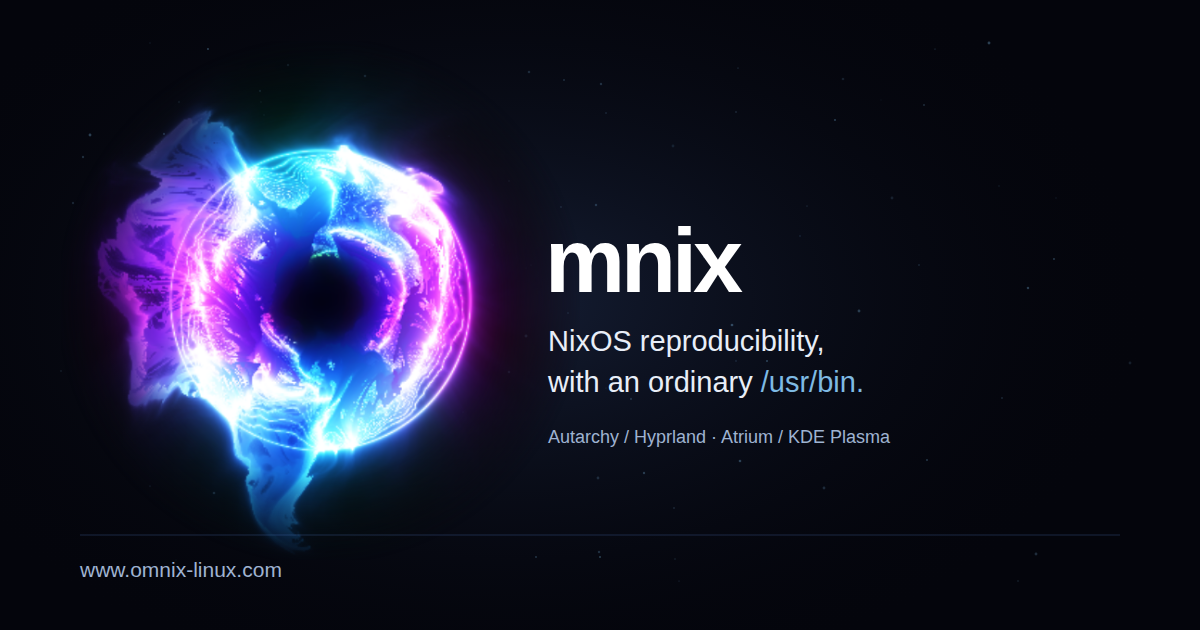
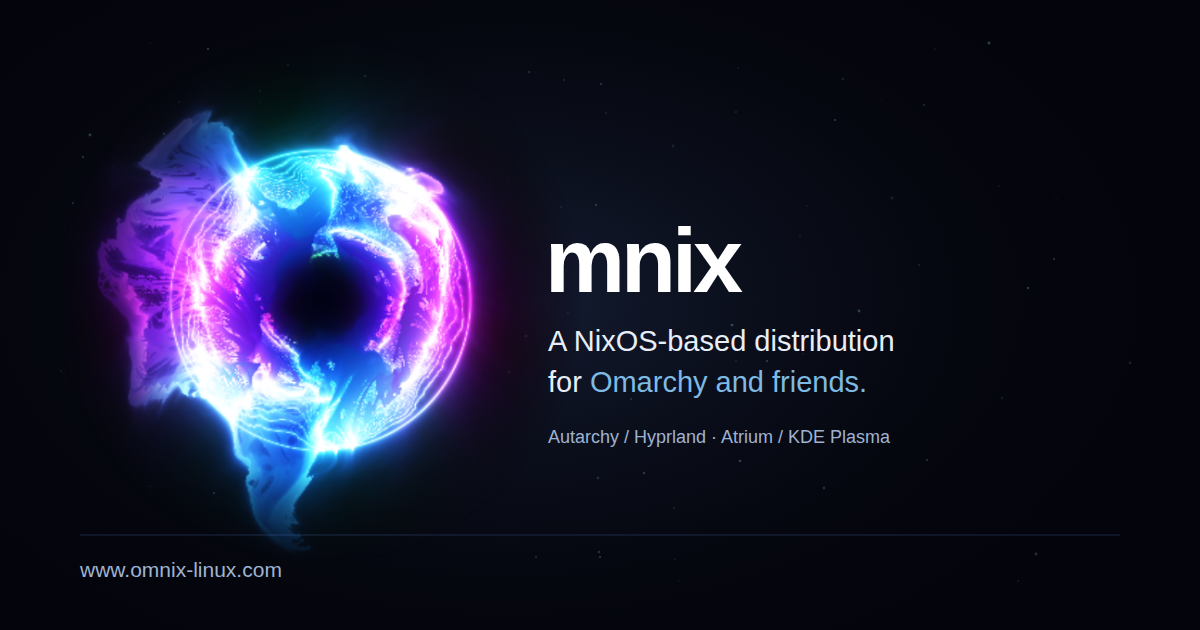
Describe shader geometry in JSON and preserve responsive O proportions

Changed region(s): [[0.4625, 0.5127, 0.74, 0.6333]]

diff --git a/coronal.js b/coronal.js
@@ -2,23 +2,75 @@
  * Derived from 3D Fire: https://fragcoord.xyz/s/3zoe0vgo
  * Expanded from the source's Golf syntax into GLSL. No audio input is needed.
  */
-afterFirstPaint(function () {
+afterFirstPaint(async function () {
   var canvas = document.getElementById("coronal");
   var orbit = document.querySelector(".logo-orbit");
   var root = document.documentElement;
   var reduce = window.matchMedia("(prefers-reduced-motion: reduce)");
-  if (!orbit || typeof THREE === "undefined" || reduce.matches) return;
+  if (!orbit || !canvas) return;
+  var profile;
+  try {
+    var response = await fetch(canvas.dataset.shaderProfile);
+    if (!response.ok) return;
+    profile = await response.json();
+    if (profile.version !== 1 || profile.geometry.letter.character !== "O") return;
+  } catch (e) { return; } // CSS and the poster supply the first-paint/offline fallback.
+  var geometry = profile.geometry, rendering = profile.rendering;
+  var wordmark = document.querySelector(".wordmark"), suffix = document.querySelector(".wordmark-text");
+  function placeLogo() {
+    var W = document.documentElement.clientWidth, H = window.innerHeight;
+    var mode = W <= profile.layout.mobile.maxViewportWidth ? profile.layout.mobile : profile.layout.desktop;
+    var box = wordmark.getBoundingClientRect();
+    var size = Math.min(W * mode.sizeViewportWidth, H * mode.sizeViewportHeight);
+    var centerX = W * mode.centerXViewport;
+    var centerY = box.top + window.scrollY + box.height / 2;
+    var left = centerX - geometry.letter.center.x * size;
+    var top = centerY - geometry.letter.center.y * size;
+    orbit.style.transform = "none";
+    orbit.style.left = (left - box.left) + "px";
+    orbit.style.top = (top - box.top - window.scrollY) + "px";
+    orbit.style.width = orbit.style.height = size + "px";
+    var letterHeight = (geometry.letter.bounds.bottom - geometry.letter.bounds.top) * size;
+    var suffixLeft = left + geometry.letter.bounds.right * size + mode.suffixGapToArtworkSize * size;
+    suffix.style.left = (suffixLeft - box.left) + "px";
+    suffix.style.top = (box.height / 2) + "px";
+    suffix.style.fontSize = Math.max(profile.layout.suffix.minFontSize,
+      Math.min(profile.layout.suffix.maxFontSize, letterHeight * mode.suffixScaleToLetterHeight)) + "px";
+    suffix.style.color = profile.layout.suffix.color;
+    suffix.textContent = profile.layout.suffix.text;
+    // Keep future profiles/longer suffixes inside a narrow viewport too.
+    var suffixWidth = suffix.getBoundingClientRect().width;
+    var available = Math.max(1, W - suffixLeft - 16);
+    if (suffixWidth > available) suffix.style.fontSize = (parseFloat(suffix.style.fontSize) * available / suffixWidth) + "px";
+    return { width: W, height: H, size: size, left: left, top: top, mode: mode };
+  }
+  document.querySelector(".logo-orbit img").src = profile.poster;
+  placeLogo();
+  if (typeof THREE === "undefined" || reduce.matches) {
+    window.addEventListener("resize", placeLogo);
+    if (document.fonts) document.fonts.ready.then(placeLogo);
+    return;
+  }
   var renderer;
   try { renderer = new THREE.WebGLRenderer({ canvas: canvas, alpha: true, antialias: false }); }
-  catch (e) { return; } // Keep the pre-rendered O when WebGL is unavailable.
-  var uniforms = { uCenter: { value: new THREE.Vector2() }, uDiameter: { value: 600 }, uTime: { value: 6 } };
+  catch (e) {
+    window.addEventListener("resize", placeLogo);
+    if (document.fonts) document.fonts.ready.then(placeLogo);
+    return; // Keep the pre-rendered O when WebGL is unavailable.
+  }
+  var uniforms = {
+    uCenter: { value: new THREE.Vector2() }, uDiameter: { value: 600 },
+    uSurfaceSize: { value: new THREE.Vector2() }, uBufferSize: { value: new THREE.Vector2() },
+    uTime: { value: 6 }
+  };
   var material = new THREE.ShaderMaterial({
     uniforms: uniforms, depthTest: false, depthWrite: false,
     vertexShader: "void main() { gl_Position = vec4(position.xy, 0., 1.); }",
     fragmentShader: [
-      "uniform vec2 uCenter; uniform float uDiameter, uTime;",
+      "uniform vec2 uCenter, uSurfaceSize, uBufferSize; uniform float uDiameter, uTime;",
       "void main() {",
-      "  vec2 uv = 2. * (gl_FragCoord.xy - uCenter) / uDiameter;",
+      "  vec2 pixel = gl_FragCoord.xy / uBufferSize * uSurfaceSize;",
+      "  vec2 uv = 2. * (pixel - uCenter) / uDiameter;",
       "  if (length(uv) > 1.5) { gl_FragColor = vec4(0., 0., 0., 1.); return; }",
       "  vec3 ray = normalize(vec3(uv, -1.));",
       "  vec3 glow = vec3(0.);",
@@ -42,52 +94,76 @@ afterFirstPaint(function () {
   var scene = new THREE.Scene(), camera = new THREE.Camera();
   var quad = new THREE.Mesh(new THREE.PlaneGeometry(2, 2), material);
   quad.frustumCulled = false; scene.add(quad);
-  // Render a full-page backdrop, skipping pixels beyond the large O.
-  var scale = Math.min(window.devicePixelRatio || 1, 1.5) * 0.45;
-  var visible = true, raf = 0, last = 0, slow = 0;
+  // Use CSS pixels for the shape and real drawing-buffer pixels for sampling.
+  // Crop the GL surface to the visible glow and cap its total pixels independently of DPR.
+  var quality = 1, raf = 0, resizeRaf = 0, last = 0, slow = 0, contextLost = false;
+  var heroPast = false;
   function draw() {
+    if (contextLost || reduce.matches) return;
     renderer.render(scene, camera);
     root.classList.add("shader-ready");
   }
+  function layout() {
+    var placement = placeLogo();
+    var W = placement.width, H = placement.height, diameter = placement.size;
+    var originX = placement.left + geometry.shaderOrigin.x * diameter;
+    var originY = placement.top + geometry.shaderOrigin.y * diameter;
+    var left = Math.max(0, Math.floor(placement.left + geometry.effectBounds.left * diameter));
+    var top = Math.max(0, Math.floor(placement.top + geometry.effectBounds.top * diameter));
+    var right = Math.min(W, Math.ceil(placement.left + geometry.effectBounds.right * diameter));
+    var bottom = Math.min(H, Math.ceil(placement.top + geometry.effectBounds.bottom * diameter));
+    var width = Math.max(1, right - left), height = Math.max(1, bottom - top);
+    canvas.style.inset = "auto";
+    canvas.style.left = left + "px"; canvas.style.top = top + "px";
+    canvas.style.width = width + "px"; canvas.style.height = height + "px";
+    var budget = (W <= profile.layout.mobile.maxViewportWidth ? rendering.mobileMaxPixels : rendering.desktopMaxPixels)
+      * (heroPast ? rendering.backgroundPixelBudgetScale : 1);
+    var ratio = Math.min(window.devicePixelRatio || 1, rendering.maxPixelRatio, Math.sqrt(budget / (width * height))) * quality;
+    renderer.setPixelRatio(ratio); renderer.setSize(width, height, false);
+    // Query WebGL itself: browser/GPU limits can differ from the requested buffer size.
+    var gl = renderer.getContext(), surface = canvas.getBoundingClientRect();
+    uniforms.uBufferSize.value.set(gl.drawingBufferWidth, gl.drawingBufferHeight);
+    uniforms.uSurfaceSize.value.set(surface.width, surface.height);
+    uniforms.uCenter.value.set(originX - surface.left, surface.height - (originY - surface.top));
+    uniforms.uDiameter.value = diameter;
+  }
   function resize() {
-    var rect = orbit.getBoundingClientRect();
-    var W = window.innerWidth, H = window.innerHeight;
-    renderer.setPixelRatio(scale); renderer.setSize(W, H, false);
-    var buffer = renderer.getDrawingBufferSize(new THREE.Vector2());
-    // Keep the O anchored to its initial hero position as the page scrolls.
-    var centerY = rect.top + window.scrollY + rect.height / 2;
-    uniforms.uCenter.value.set((rect.left + rect.width / 2) * buffer.x / W, (H - centerY) * buffer.y / H);
-    uniforms.uDiameter.value = rect.width * buffer.x / W;
-    draw();
+    if (resizeRaf) return;
+    resizeRaf = requestAnimationFrame(function () { resizeRaf = 0; layout(); draw(); });
   }
   function frame(now) {
     raf = 0;
-    if (!visible || document.hidden || reduce.matches) return;
-    // A modest 30fps cap also leaves time for the lettering's particle animation.
-    if (now - last >= 1000 / 30) {
-      if (last && now - last > 70) slow++; else slow = Math.max(0, slow - 1);
+    if (document.hidden || reduce.matches || contextLost) return;
+    var interval = 1000 / (heroPast ? rendering.backgroundFps : rendering.heroFps);
+    if (!last || now - last >= interval) {
+      if (last && now - last > interval * 1.8) slow++; else slow = Math.max(0, slow - 1);
       uniforms.uTime.value = now / 1000 + 6;
-      if (slow > 12 && scale > 0.35) { scale = Math.max(0.35, scale * 0.8); resize(); slow = 0; }
+      if (slow > 6 && quality > rendering.minQuality) { quality = Math.max(rendering.minQuality, quality * 0.8); layout(); slow = 0; }
       draw(); last = now;
     }
     raf = requestAnimationFrame(frame);
   }
-  function play() { if (!raf && visible && !document.hidden && !reduce.matches) { last = 0; raf = requestAnimationFrame(frame); } }
+  function play() { if (!raf && !document.hidden && !reduce.matches && !contextLost) { last = 0; raf = requestAnimationFrame(frame); } }
   function pause() { cancelAnimationFrame(raf); raf = 0; }
-  canvas.addEventListener("webglcontextlost", function (event) { event.preventDefault(); pause(); root.classList.remove("shader-ready"); });
-  canvas.addEventListener("webglcontextrestored", function () { resize(); play(); });
+  canvas.addEventListener("webglcontextlost", function (event) {
+    event.preventDefault(); contextLost = true; pause(); root.classList.remove("shader-ready");
+  });
+  canvas.addEventListener("webglcontextrestored", function () { contextLost = false; resize(); play(); });
   document.addEventListener("visibilitychange", function () { document.hidden ? pause() : play(); });
   reduce.addEventListener("change", function () {
     if (reduce.matches) { pause(); root.classList.remove("shader-ready"); }
-    else { draw(); play(); }
+    else { resize(); play(); }
   });
   if ("IntersectionObserver" in window) {
     new IntersectionObserver(function (entries) {
-      root.classList.toggle("hero-past", entries[0].intersectionRatio < 0.35);
+      var next = entries[0].intersectionRatio < 0.35;
+      root.classList.toggle("hero-past", next);
+      if (heroPast !== next) { heroPast = next; last = 0; resize(); }
     }, { threshold: [0, 0.35] }).observe(document.getElementById("top"));
   }
   if (document.fonts) document.fonts.ready.then(resize);
-  if (typeof ResizeObserver !== "undefined") new ResizeObserver(resize).observe(orbit);
+  if (typeof ResizeObserver !== "undefined") new ResizeObserver(resize).observe(document.querySelector(".hero-inner"));
   window.addEventListener("resize", resize);
+  if (window.visualViewport) window.visualViewport.addEventListener("resize", resize);
   resize(); play();
 });

diff --git a/index.html b/index.html
@@ -10,20 +10,20 @@
 <meta property="og:type" content="website">
 <meta property="og:site_name" content="Omnix">
 <meta property="og:locale" content="en_US">
-<meta property="og:title" content="Omnix — NixOS with a standard Linux layout">
-<meta property="og:description" content="NixOS reproducibility, with an ordinary /usr/bin. Choose Autarchy or Atrium, use prebuilt packages when available, and compile when needed.">
+<meta property="og:title" content="Omnix — A NixOS-based distribution for Omarchy and friends">
+<meta property="og:description" content="A NixOS-based distribution for Omarchy and friends. Choose Autarchy or Atrium, use prebuilt packages when available, and compile when needed.">
 <meta property="og:url" content="https://www.omnix-linux.com/">
 <meta property="og:image" content="https://www.omnix-linux.com/social-preview.png">
 <meta property="og:image:secure_url" content="https://www.omnix-linux.com/social-preview.png">
 <meta property="og:image:type" content="image/png">
 <meta property="og:image:width" content="1200">
 <meta property="og:image:height" content="630">
-<meta property="og:image:alt" content="A large cyan-violet Coronal ring forming the O beside smaller mnix lettering, with the tagline NixOS reproducibility, with an ordinary /usr/bin.">
+<meta property="og:image:alt" content="A large cyan-violet Coronal ring forming the O beside smaller mnix lettering, with the tagline A NixOS-based distribution for Omarchy and friends.">
 <meta name="twitter:card" content="summary_large_image">
-<meta name="twitter:title" content="Omnix — NixOS with a standard Linux layout">
-<meta name="twitter:description" content="NixOS reproducibility, with an ordinary /usr/bin. Choose Autarchy or Atrium, use prebuilt packages when available, and compile when needed.">
+<meta name="twitter:title" content="Omnix — A NixOS-based distribution for Omarchy and friends">
+<meta name="twitter:description" content="A NixOS-based distribution for Omarchy and friends. Choose Autarchy or Atrium, use prebuilt packages when available, and compile when needed.">
 <meta name="twitter:image" content="https://www.omnix-linux.com/social-preview.png">
-<meta name="twitter:image:alt" content="A large cyan-violet Coronal ring forming the O beside smaller mnix lettering, with the tagline NixOS reproducibility, with an ordinary /usr/bin.">
+<meta name="twitter:image:alt" content="A large cyan-violet Coronal ring forming the O beside smaller mnix lettering, with the tagline A NixOS-based distribution for Omarchy and friends.">
 <title>Omnix</title>
 <meta name="color-scheme" content="dark">
 <style>html, body { background: #04050c; color: #e8eef8; }
@@ -81,12 +81,13 @@
     } catch (e) {}
   })();
 </script>
-<meta name="description" content="Omnix: NixOS with the standard Linux layout. Prebuilt software just runs.">
+<meta name="description" content="Omnix: a NixOS-based distribution for Omarchy and friends. Choose an Omarchy-style Hyprland desktop with Autarchy or KDE Plasma with Atrium.">
 <link rel="preconnect" href="https://fonts.googleapis.com">
 <link rel="preconnect" href="https://fonts.gstatic.com" crossorigin>
 <link rel="preload" as="style" href="https://fonts.googleapis.com/css2?family=JetBrains+Mono:wght@400;500;700;800&family=Instrument+Sans:wght@400;500;600&family=Lexend:wght@800&display=swap">
 <link rel="stylesheet" href="https://fonts.googleapis.com/css2?family=JetBrains+Mono:wght@400;500;700;800&family=Instrument+Sans:wght@400;500;600&family=Lexend:wght@800&display=swap" media="print" onload="this.media='all'">
 <noscript><link rel="stylesheet" href="https://fonts.googleapis.com/css2?family=JetBrains+Mono:wght@400;500;700;800&family=Instrument+Sans:wght@400;500;600&family=Lexend:wght@800&display=swap"></noscript>
+<link rel="preload" href="shader-profile.json" as="fetch" crossorigin>
 <script defer src="https://cdnjs.cloudflare.com/ajax/libs/three.js/r128/three.min.js"></script>
 <style>
   /* Layout: one idea per full-height panel over a dark starfield; text sits in a left column, evidence on the right. */
@@ -176,18 +177,17 @@
   #coronal { position: fixed; inset: 0; width: 100vw; height: 100vh; z-index: 0; pointer-events: none; opacity: 0; transition: opacity .8s ease; }
   .shader-ready #coronal { opacity: 1; }
   .shader-ready.hero-past #coronal { opacity: .24; }
-  .logo-orbit { position: absolute; left: 0; top: 50%; transform: translate(-10%, -50%); width: min(80vw, 110svh); aspect-ratio: 1; display: block; pointer-events: none; }
+  .logo-orbit { position: absolute; left: calc(38vw - (100vw - min(88vw, 1240px)) / 2); top: 50%; transform: translate(-50%, -50%); width: min(80vw, 110svh); aspect-ratio: 1; display: block; pointer-events: none; }
   .logo-orbit img { width: 100%; height: 100%; display: block; }
   .shader-ready .logo-orbit img { opacity: 0; }
-  .wordmark-text { position: absolute; z-index: 1; left: 58%; top: 50%; transform: translateY(-50%); font-size: clamp(3.5rem, 10vw, 8.75rem); letter-spacing: -.045em; color: #fff; }
+  .wordmark-text { position: absolute; z-index: 1; left: calc(38vw + min(28vw, 38.5svh) - (100vw - min(88vw, 1240px)) / 2); top: 50%; transform: translateY(-50%); font-size: clamp(3.5rem, 10vw, 8.75rem); letter-spacing: -.045em; color: #fff; }
   @media (max-width: 640px) {
     .hero-inner { gap: 24px; }
     .wordmark { height: 44svh; }
-    .logo-orbit { width: 100vw; left: -10%; }
-    .wordmark-text { left: 63%; font-size: clamp(2rem, 9vw, 3.5rem); }
+    .logo-orbit { width: 100vw; left: calc(37vw - max(16px, 6vw)); }
+    .wordmark-text { left: calc(65vw - max(16px, 6vw)); font-size: clamp(2rem, 9vw, 3.5rem); }
   }
   .tagline { font-family: var(--font-display); font-weight: 500; font-size: var(--step-1); margin: 0; max-width: 32ch; text-wrap: balance; }
-  .tagline code { color: var(--ice); }
   .cta { display: flex; gap: 12px; flex-wrap: wrap; }
   .btn {
     font-family: var(--font-mono); font-size: var(--step--1); font-weight: 700; letter-spacing: 0.04em;
@@ -283,7 +283,7 @@
 </style>
 </head>
 <body>
-<canvas id="coronal" aria-hidden="true"></canvas>
+<canvas id="coronal" data-shader-profile="shader-profile.json" aria-hidden="true"></canvas>
 <div class="scrim"></div>
 
 <nav class="rail" aria-label="Sections">
@@ -308,7 +308,7 @@
           <span class="wordmark-text" aria-hidden="true">mnix</span>
         </h1>
       </div>
-      <p class="tagline">NixOS reproducibility, with an ordinary <code>/usr/bin</code>.</p>
+      <p class="tagline">A NixOS-based distribution for Omarchy and friends.</p>
       <div class="cta">
         <a class="btn primary" href="https://github.com/Omnix-Linux/Omnix/releases">Download the installer</a>
         <a class="btn" href="https://github.com/Omnix-Linux">View on GitHub</a>
@@ -500,7 +500,7 @@ ls: cannot access '/usr/lib': No such file or directory</pre>
   <div class="foot">
     <div>
       <h4>Omnix</h4>
-      <p>NixOS reproducibility with a standard filesystem layout. Independent, and not affiliated with or endorsed by the NixOS Foundation.</p>
+      <p>A NixOS-based distribution for Omarchy and friends. Independent, and not affiliated with or endorsed by the NixOS Foundation.</p>
     </div>
     <div>
       <h4>Repositories</h4>

diff --git a/README.md b/README.md
@@ -2,8 +2,12 @@
 
 The Omnix website, served at https://www.omnix-linux.com.
 
-A static page (`index.html`) with a three.js shader in `coronal.js`. The oversized O uses [Coronal](https://fragcoord.xyz/s/3otcb9tt) by [@Xor](https://fragcoord.xyz/u/Xor), derived from [3D Fire](https://fragcoord.xyz/s/3zoe0vgo). The shader is expanded from Golf syntax into GLSL and rendered as a full-page background anchored to the oversized O, with adaptive resolution and a 30fps cap. The smaller `mnix` lettering is persistent white text.
+A static page (`index.html`) with a three.js shader in `coronal.js`. The oversized O uses [Coronal](https://fragcoord.xyz/s/3otcb9tt) by [@Xor](https://fragcoord.xyz/u/Xor), derived from [3D Fire](https://fragcoord.xyz/s/3zoe0vgo). The shader is expanded from Golf syntax into GLSL and rendered as a full-page background anchored to the oversized O, using a cropped WebGL surface, CSS-pixel coordinates, a 320k desktop / 160k mobile render-pixel budget, and adaptive quality. It runs at up to 30fps in the hero and 15fps with half the pixel budget below it. The smaller `mnix` lettering is persistent white text.
 
 `coronal-poster.png` is a static render at shader time 6 seconds. It supplies the initial image and the fallback for reduced motion, unavailable WebGL, or context loss. To refresh it, render the shader at that time with a centered O in a square viewport and export the O against a transparent background. The logo and lettering resize with the layout.
 
 Link previews use Open Graph and Twitter Card metadata in the static HTML head. `social-preview.png` is the public 1200 × 630 preview image; `social-preview.svg` is its editable source. After editing the SVG, render it to an opaque PNG at the same dimensions and update both files.
+
+`shader-profile.json` is the geometry and layout contract for the O. Coordinates are normalized to a square reference artwork (560 × 560 for Coronal), with the origin at the top left. `geometry.letter.center` anchors the O, `geometry.letter.bounds` describes its main circular body, and `geometry.effectBounds` includes the animated plumes/glow. The letter bounds are authored conservative bounds; they deliberately exclude transient plumes. Suffix placement uses the letter's right bound plus the configured gap; font size scales with the letter's height. The GL surface is the effect bounds intersected with the viewport, with independent CSS-to-buffer conversion on both axes to preserve the circle at any render resolution.
+
+When substituting another O shader, supply its center, letter bounds, effect bounds and shader origin in a matching profile, update the canvas's `data-shader-profile` path, and port its GLSL. Placement and render budgets come from the JSON. CSS provides the initial/no-JavaScript fallback; the profile takes over as soon as it loads.
